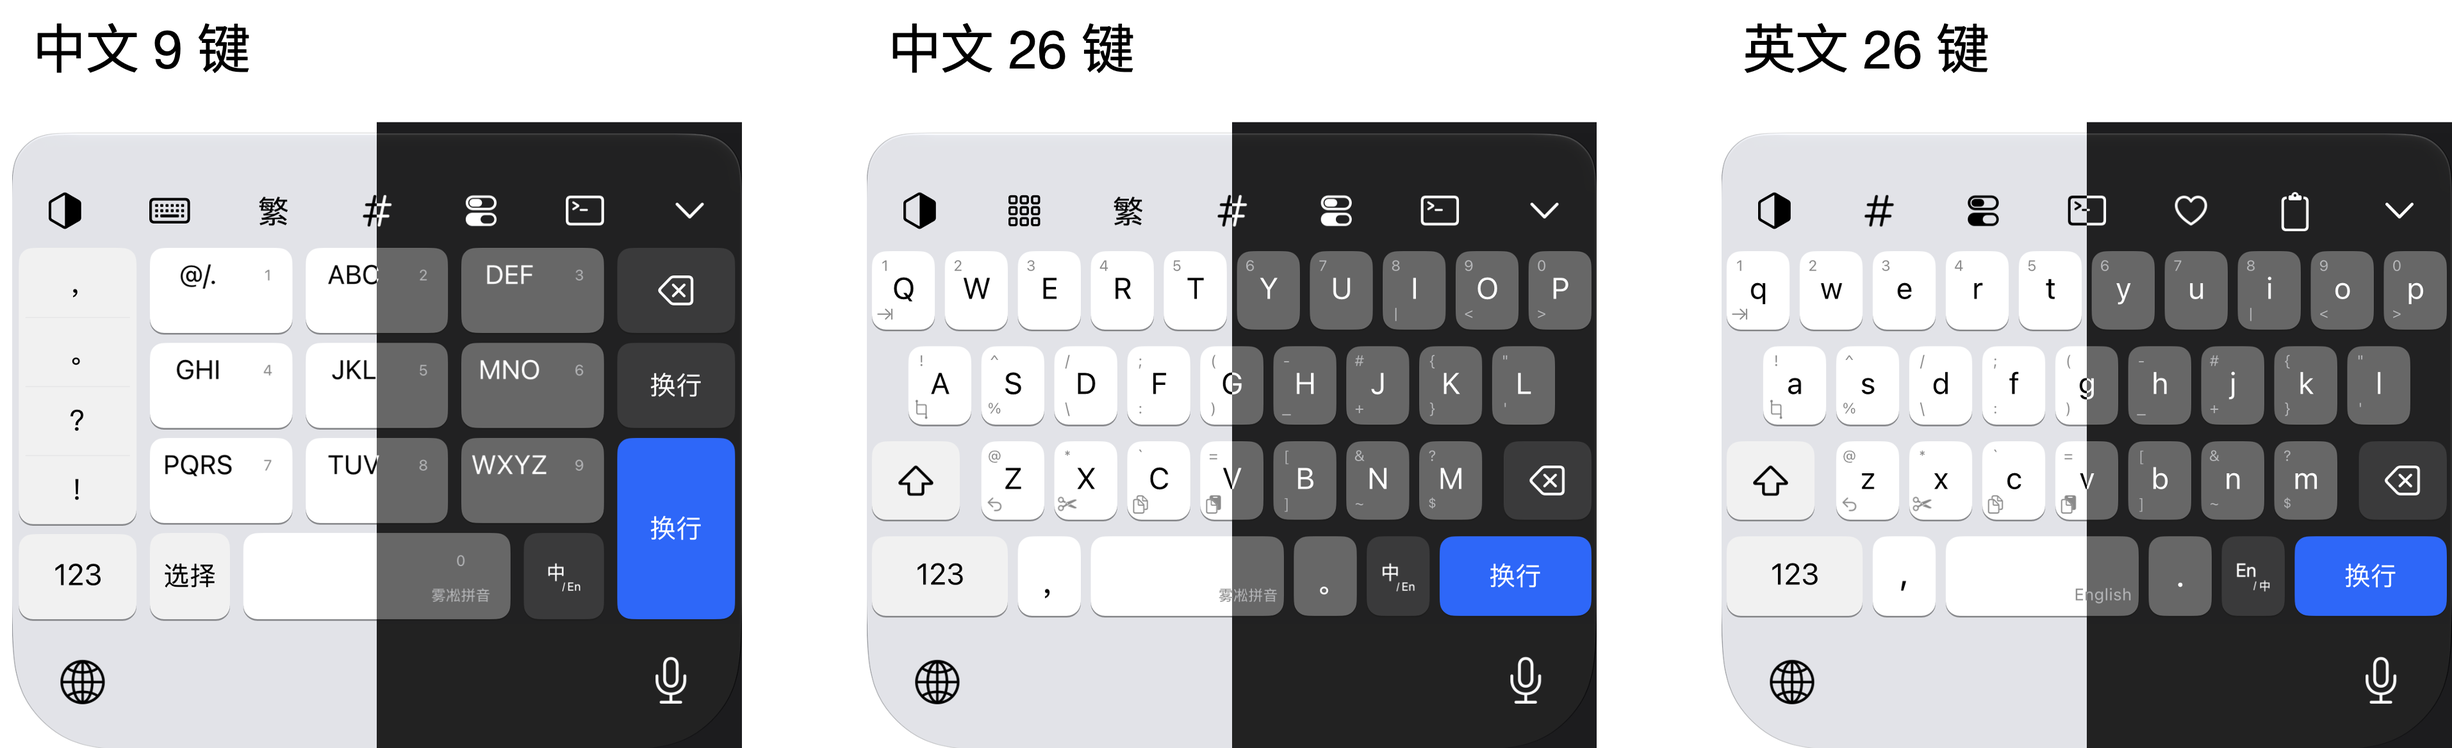
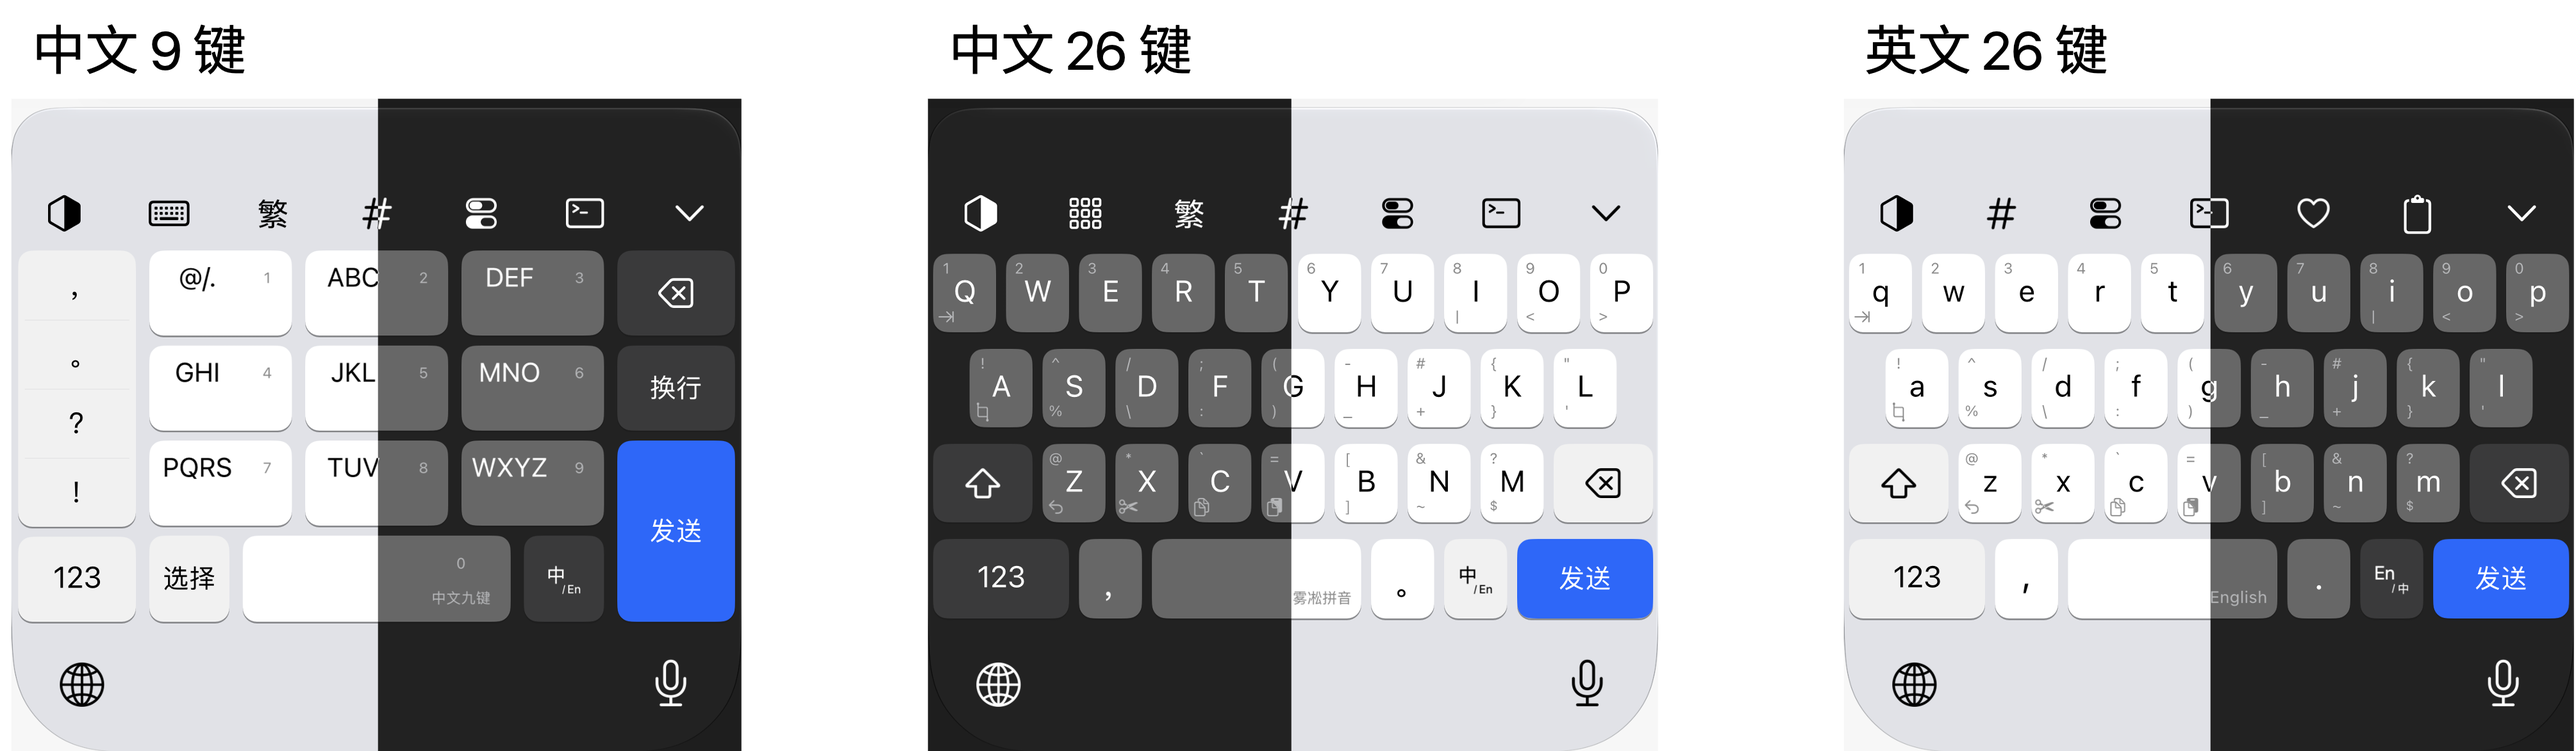
皮肤细节调整

diff --git a/README.md b/README.md
@@ -75,7 +75,7 @@
 
 ### 修改 9：候选词颜色修改为主题色
 
-将选中的候选词颜色修改为主题色。
+将选中的候选词背景框颜色修改为主题色，候选词、序号和注释使用白色加粗字体（但加粗似乎不太明显）。
 
 ## 在 iPhone 上安装
 
